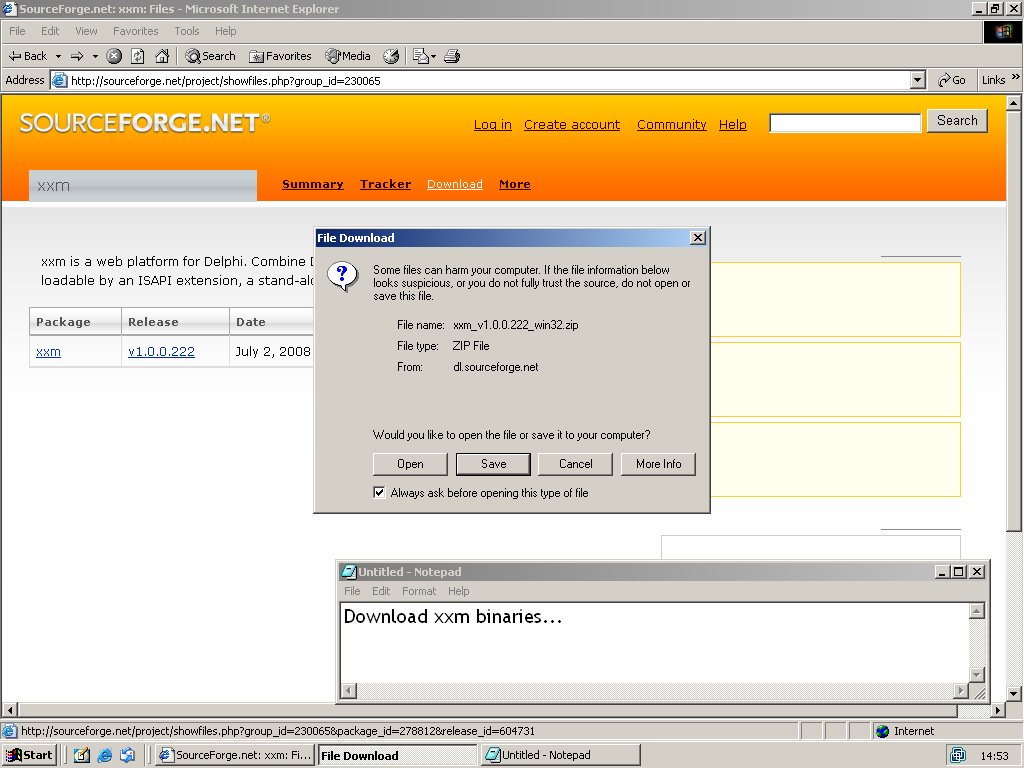
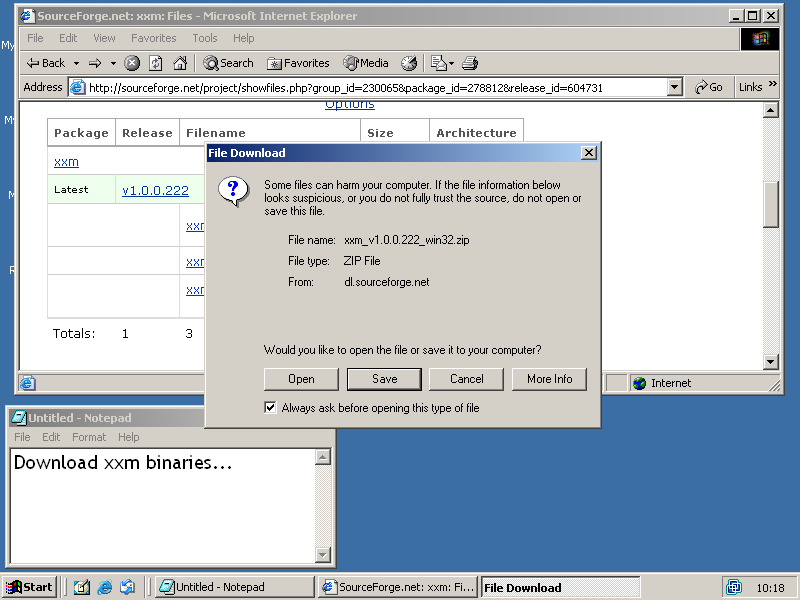
revised tutorial: 800x600, added xxmHttp

diff --git a/Delphi/docs/tutorial01/index.html b/Delphi/docs/tutorial01/index.html
@@ -1,17 +1,18 @@
-<html>
-<head>
-<title>xxm tutorial quick guide screenshots</title>
+<html> 
+<head> 
+<title>xxm tutorial quick guide screenshots</title> 
 <style type="text/css"><!--
-BODY{font-family:Calibri,Verdana,sans-serif;font-size:18pt;overflow:hidden;}
+BODY{font-family:Calibri,Verdana,sans-serif;font-size:16pt;overflow:hidden;}
 P{text-align:center;margin:0pt;}
+P#tutnav{font-size:12pt;}
 IMG#tutsnap{border:2px solid #999999;}
 A{text-decoration:none;}
-//--></style>
-<body onresize="doresize();">
-<p id="tutnav"><i>loading...</i></p>
-<p><img src="snap00.png" id="tutsnap" width="1024" height="768" onclick="nav(csnap+1);" /><img src="snap01.png" id="tutpre" width="0" height="0" /></p>
-<p id="tuttxt"></p>
-<script language="javascript" src="snaps.js"></script>
+//--></style> 
+<body onresize="doresize();"> 
+<p id="tutnav"><i>loading...</i></p> 
+<p><img src="snap00.png" id="tutsnap" width="800" height="600" onclick="nav(csnap+1);" /><img src="snap01.png" id="tutpre" width="0" height="0" /></p> 
+<p id="tuttxt"></p> 
+<script language="javascript" src="snaps.js"></script> 
 <script language="javascript"><!--
 var tutnav=document.getElementById("tutnav");
 var tutsnap=document.getElementById("tutsnap");
@@ -22,34 +23,37 @@ function doresize()
 {
 	var x=tutnav.clientWidth;
 	if(x==0)x=tutnav.offsetWidth;
-	if(x<1024)
+	if(x<800)
 	{
 		tutsnap.width=x;
 		tutsnap.height=x*0.75;
 	}
-	else if(tutsnap.width!=1024)
+	else if(tutsnap.width!=800)
 	{
-		tutsnap.width=1024;
-		tutsnap.height=768;
+		tutsnap.width=800;
+		tutsnap.height=600;
 	}
 }
 function buildnav()
 {
 	var i;
-	var x=(csnap==0)?'<s>prev</s>':('<a href="javascript:nav('+(csnap-1)+');">prev</a>');
+	var x=(csnap==0)?'<s>[prev]</s>':('<a href="javascript:nav('+(csnap-1)+');">[prev]</a>');
 	for(i=0;i<snaps.length;i++) x+=" "+((csnap==i)?('<b>['+i+']</b>'):('<a href="javascript:nav('+i+');">['+i+']</a>'));
-	tutnav.innerHTML=x+' '+((csnap==snaps.length-1)?'<s>next</s>':('<a href="javascript:nav('+(csnap+1)+');">next</a>'));
+	tutnav.innerHTML='<a href="..">[back]</a> '+x+' '+((csnap==snaps.length-1)?'<s>[next]</s>':('<a href="javascript:nav('+(csnap+1)+');">[next]</a>'));
 }
 function nav(x)
 {
-	if(x<snaps.length)csnap=x;
-	tutsnap.src="snap"+new String(100+x).substr(1,2)+".png";
-	tuttxt.innerHTML=snaps[x];
-	buildnav();
-	if(x+1<snaps.length)tutpre.src="snap"+new String(101+x).substr(1,2)+".png";
+	if(x<snaps.length)
+	{
+		csnap=x;
+		tutsnap.src="snap"+new String(100+x).substr(1,2)+".png";
+		tuttxt.innerHTML=snaps[x];
+		buildnav();
+		if(x+1<snaps.length)tutpre.src="snap"+new String(101+x).substr(1,2)+".png";
+	}
 }
 doresize();
 buildnav();
 tuttxt.innerHTML=snaps[csnap];
-//--></script>
+//--></script> 
 </body>

diff --git a/Delphi/docs/tutorial01/snaps.js b/Delphi/docs/tutorial01/snaps.js
@@ -1,5 +1,5 @@
 var snaps=[
-"xxm Tutorial 1<br />Quick Guide with Screenshots<br />How to install xxmLocal and xxmIsapi<br /><span style='font-size:10pt;'>Use navigation on top or click image to proceed.</span>",
+"xxm Tutorial 1<br />Quick guide with screenshots<br />How to install xxmLocal,<br />xxmIsapi and xxmHttp<br /><span style='font-size:10pt;'>Use navigation on top or click image to proceed.</span>",
 "This is a default Windows install, with IIS. Delphi 7 is installed also.",
 "Download xxm binaries...<br /><span style='font-size:10pt'>see <a href='http://xxm.sourceforge.net/download.html' target='_blank'>xxm/download</a></span>",
 "Create an appropriate directory and extract",
@@ -21,4 +21,6 @@ var snaps=[
 "Let's go live with these! First a quick and dirty method: call over xxmIsapiEx.dll as an executable<br /><span style='font-size:10pt;'>enter \"localhost/Scripts/xxmIsapiEx.dll\"</span>",
 "It uses a project registry in a local XML file<br /><span style='font-size:9pt;white-space:nowrap;'>&lt;ProjectRegistry&gt;<br />&lt;Project Name=\"hello\"&gt;&lt;ModulePath&gt;C:\\InetPub\\xxm\\MyFirstXxmProject\\MyFirstXxmProject.xxl&lt;/ModulePath&gt;&lt;/Project&gt;<br />&lt;Project Name=\"demo\"&gt;&lt;ModulePath&gt;C:\\InetPub\\xxm\\demo\\03 Data\\demo.xxl&lt;/ModulePath&gt;&lt;/Project&gt;<br />&lt;/ProjectRegistry&gt;</span>",
 "Now the proper way: copy only the files needed for a live environment, and rig a virt-dir <span style='font-size:10pt'>or website</span> to pass all requests through an extension mapping. (I prefer xxmIsapiAU.dll to enable xxl updates without IIS downtime!) Tip: use a separate xxmIsapi*.dll instance <span style='font-size:10pt'>with its own xxm.xml</span> per project on the server, this enables per-project upgrades if xxm should release a new version.",
-"Optionally, set Isolation High to have a separate process to control identity and permissions"];
+"Optionally, set Isolation High to have a separate process to control identity and permissions",
+"If you don't need all the extra's IIS provides, use the stand-alone server, as a user-controlled process...",
+"... or as an NT-service"];
